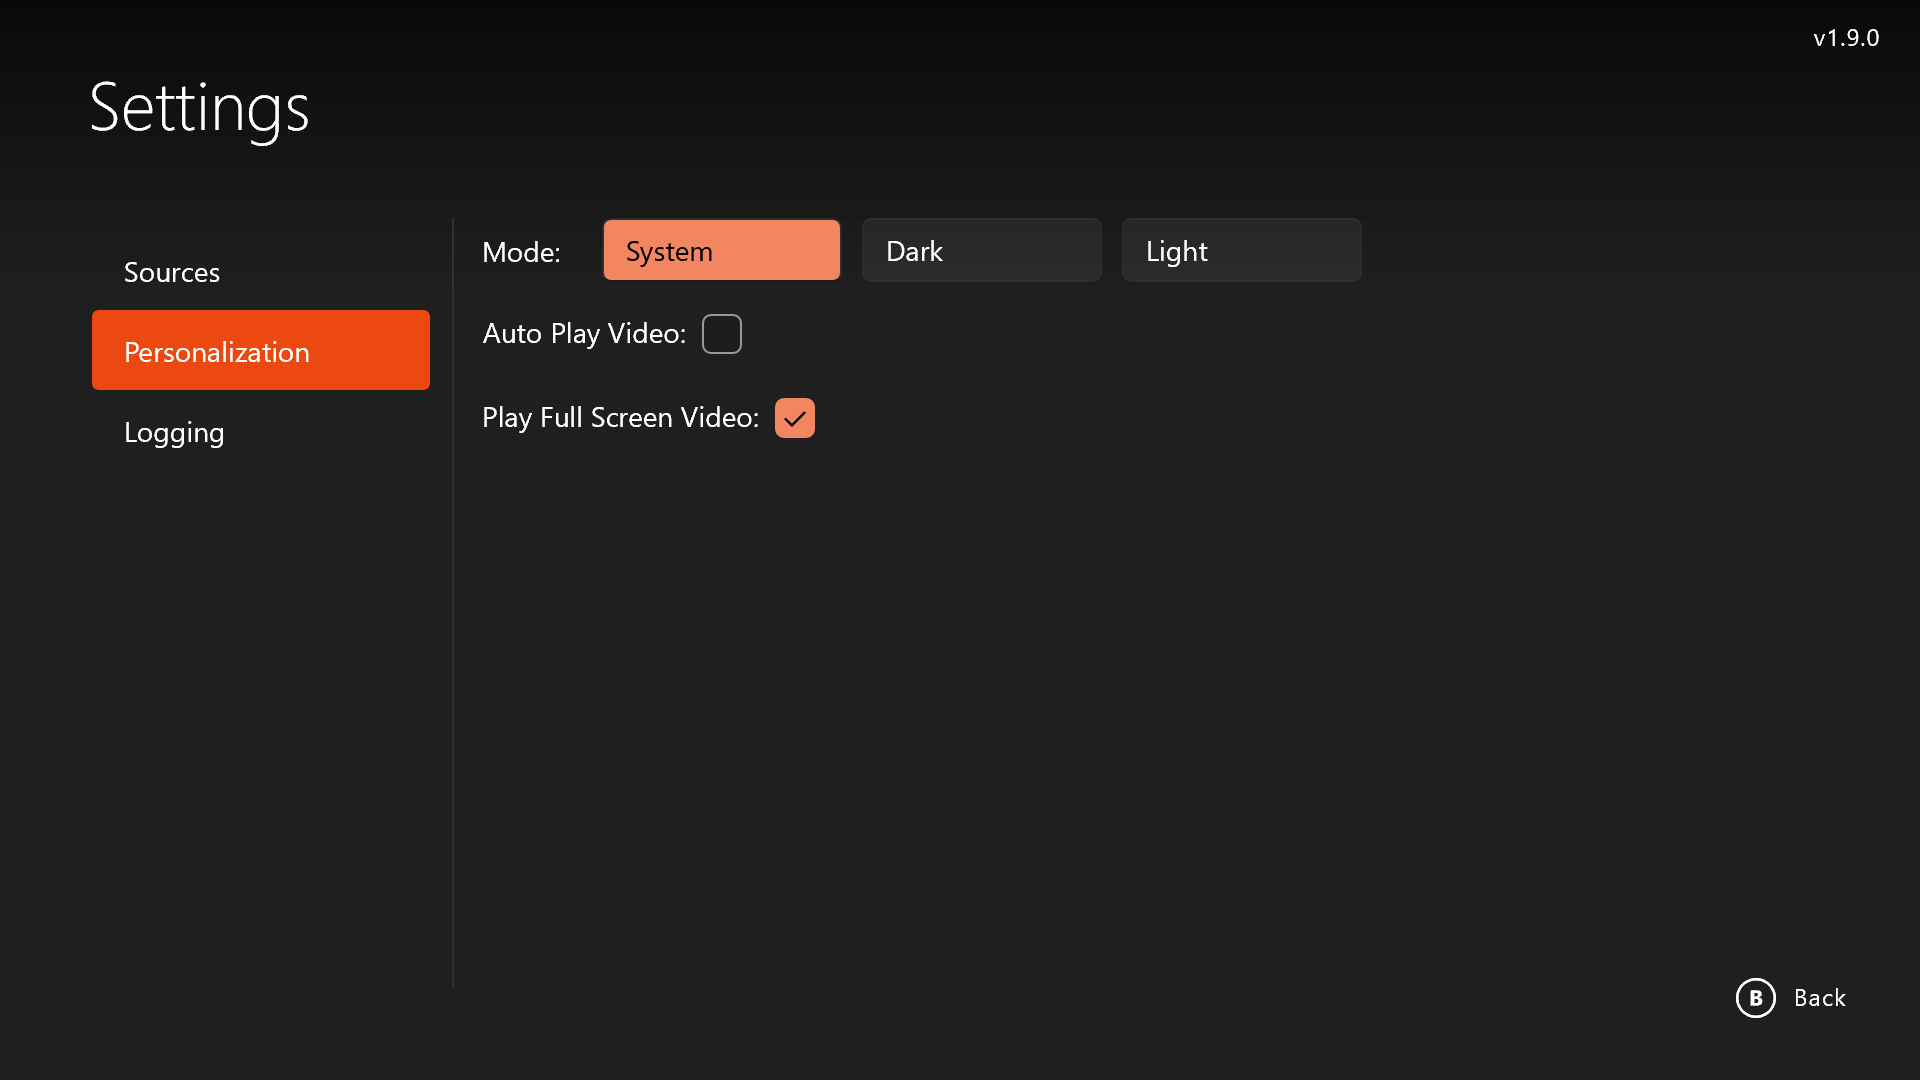
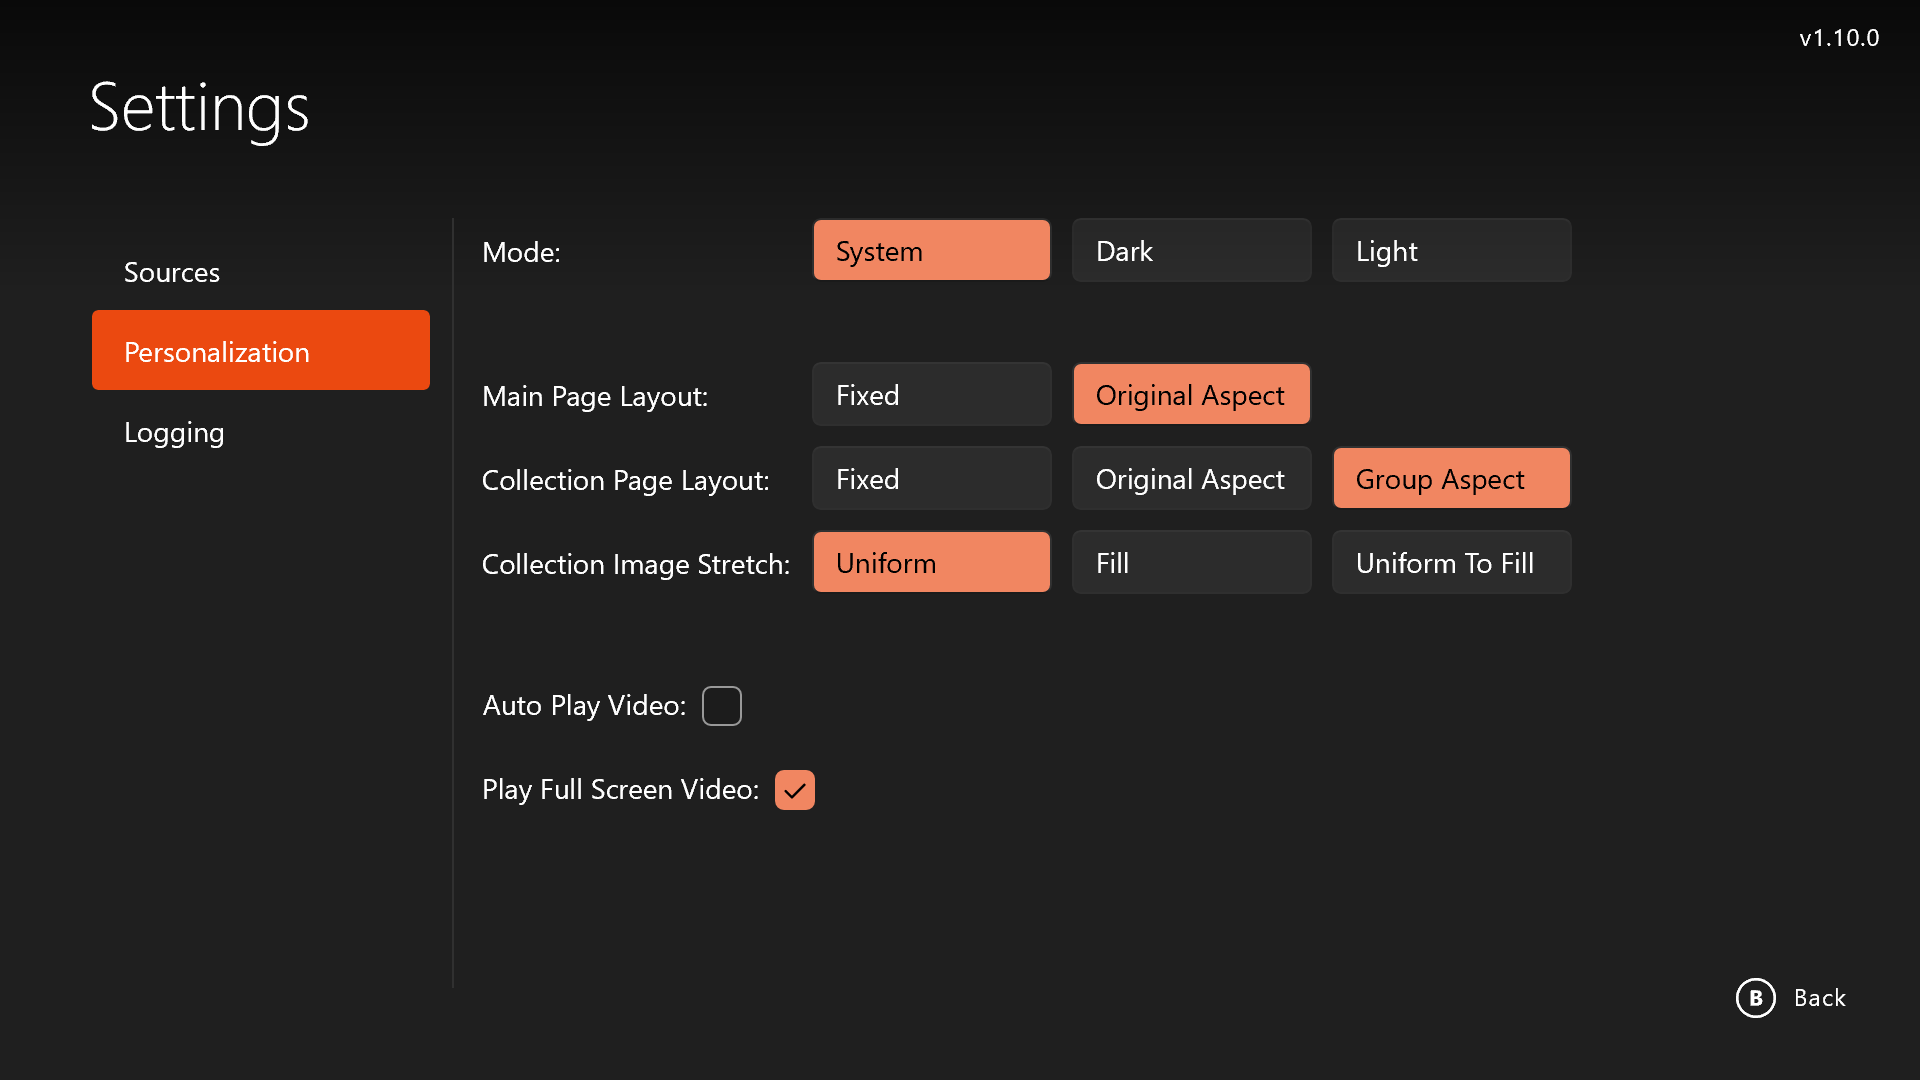
adaptive layout docs and minor tweaks

diff --git a/RetroPass/SettingsPages/SettingsPersonalizationPage.xaml b/RetroPass/SettingsPages/SettingsPersonalizationPage.xaml
@@ -59,8 +59,8 @@
             <TextBlock Grid.Column="0" VerticalAlignment="Center" >Collection Page Layout:</TextBlock>
             <StackPanel x:Name="RadioButtonsCollectionPageLayout" Grid.Column="1" Orientation="Horizontal" Spacing="10">
                 <RadioButton XYFocusUpNavigationStrategy="RectilinearDistance" Content="Fixed" Tag="Fixed" Checked="RadioButtonCollectionPageLayout_Checked"/>
-                <RadioButton XYFocusUpNavigationStrategy="RectilinearDistance" Content="OriginalAspect" Tag="OriginalAspect" Checked="RadioButtonCollectionPageLayout_Checked"/>
-                <RadioButton XYFocusUpNavigationStrategy="RectilinearDistance" Content="Approximate Aspect" Tag="ApproximateAspect" Checked="RadioButtonCollectionPageLayout_Checked"/>
+                <RadioButton XYFocusUpNavigationStrategy="RectilinearDistance" Content="Original Aspect" Tag="OriginalAspect" Checked="RadioButtonCollectionPageLayout_Checked"/>
+                <RadioButton XYFocusUpNavigationStrategy="RectilinearDistance" Content="Group Aspect" Tag="ApproximateAspect" Checked="RadioButtonCollectionPageLayout_Checked"/>
             </StackPanel>
         </Grid>
         <Grid Grid.Row="4">
@@ -72,7 +72,7 @@
             <StackPanel x:Name="RadioButtonsImageStretch" Grid.Column="1" Orientation="Horizontal" Spacing="10">
                 <RadioButton XYFocusUpNavigationStrategy="RectilinearDistance" Content="Uniform" Tag="Uniform" Checked="RadioButtonImageStretch_Checked"/>
                 <RadioButton XYFocusUpNavigationStrategy="RectilinearDistance" Content="Fill" Tag="Fill" Checked="RadioButtonImageStretch_Checked"/>
-                <RadioButton XYFocusUpNavigationStrategy="RectilinearDistance" Content="UniformToFill" Tag="UniformToFill" Checked="RadioButtonImageStretch_Checked"/>
+                <RadioButton XYFocusUpNavigationStrategy="RectilinearDistance" Content="Uniform To Fill" Tag="UniformToFill" Checked="RadioButtonImageStretch_Checked"/>
             </StackPanel>
         </Grid>
         <CheckBox Grid.Row="6" x:Name="AutoPlayVideoCheckBox" FlowDirection="RightToLeft" Content="Auto Play Video:" Checked="AutoPlayVideoCheckBox_Checked" Unchecked="AutoPlayVideoCheckBox_Unchecked"/>

diff --git a/Docs/SettingsPersonalization.md b/Docs/SettingsPersonalization.md
@@ -3,9 +3,28 @@
 ![](/Docs/settings_personalization.png)
 
 - **Mode** - Choose light or dark mode for UI.
-	* System - use default Xbox theme
-	* Dark - override Xbox theme, use dark mode
-	* Light - override Xbox theme, use light mode
+	* **System** - use default Xbox theme
+	* **Dark** - override Xbox theme, use dark mode
+	* **Light** - override Xbox theme, use light mode
+- **Main Page Layout**
+	* **Fixed** - Predefined width and height of items on the main page.
+	<br/>![](/Docs/layout_menu_fixed.png)
+	* **Original Aspect** - Variable width, predefined height. The list becomes horizontally scrollable, up to 5 items.
+	![](/Docs/layout_menu_original.png)
+- **Collection Page Layout**
+	* **Fixed** - Predefined width and height of items on platform collection page.
+	<br/>![](/Docs/layout_collection_fixed.png)
+	* **Original Aspect** - Variable width, predefined height, variable space between items. The number of items in a row is automatically determined by the width of the first image in the collection. 
+	![](/Docs/layout_collection_original.png)
+	* **Group Aspect** - Variable width, predefined height, fixed space between items. The number of items in a row is predefined by the aspect ratio, utilizing row space as best as possible. In general, Group Aspect may display the same or more images in a row when compared to Original Aspect.
+	![](/Docs/layout_collection_group.png)
+- **Collection Image Stretch**
+	* **Uniform** - Fill by width, preserving aspect ratio. It can result in some empty space at the bottom of the area if the image aspect ratio is not the same as item aspect ratio.
+	<br/>![](/Docs/layout_collection_stretch_uniform.png)
+	* **Fill** - Fill the whole area. Changes image aspect ratio. Images may look stretched.
+	![](/Docs/layout_collection_stretch_fill.png)
+	* **Uniform To Fill** - Fill the whole area, preserving aspect ratio. Images may be zoomed in, cropping edge parts.
+	![](/Docs/layout_collection_stretch_uniform_to_fill.png)	
 - **Auto Play Video** - If checked, automatically plays a video when content is selected.
 - **Play Full Screen Video** - If checked, plays larger game video.
 

diff --git a/README.md b/README.md
@@ -60,6 +60,10 @@ You can further configure RetroPass in Settings.
 3. [Logging](/Docs/SettingsLogging.md) - Turn on/off logger and view log entries.
 
 ## Controls
+- **Left Stick** - Navigate
+- **D-pad** - Navigate
+- **Triggers** - Jump vertically for faster navigation through platforms and collections
+- **Bumpers** - Jump horizontally for faster navigation through platforms
 - **Gamepad A** - Confirm
 - **Gamepad B** - Back, previous screen, close dialog
 - **Gamepad X** - Add/Remove title from/to **Play Later** playlist
